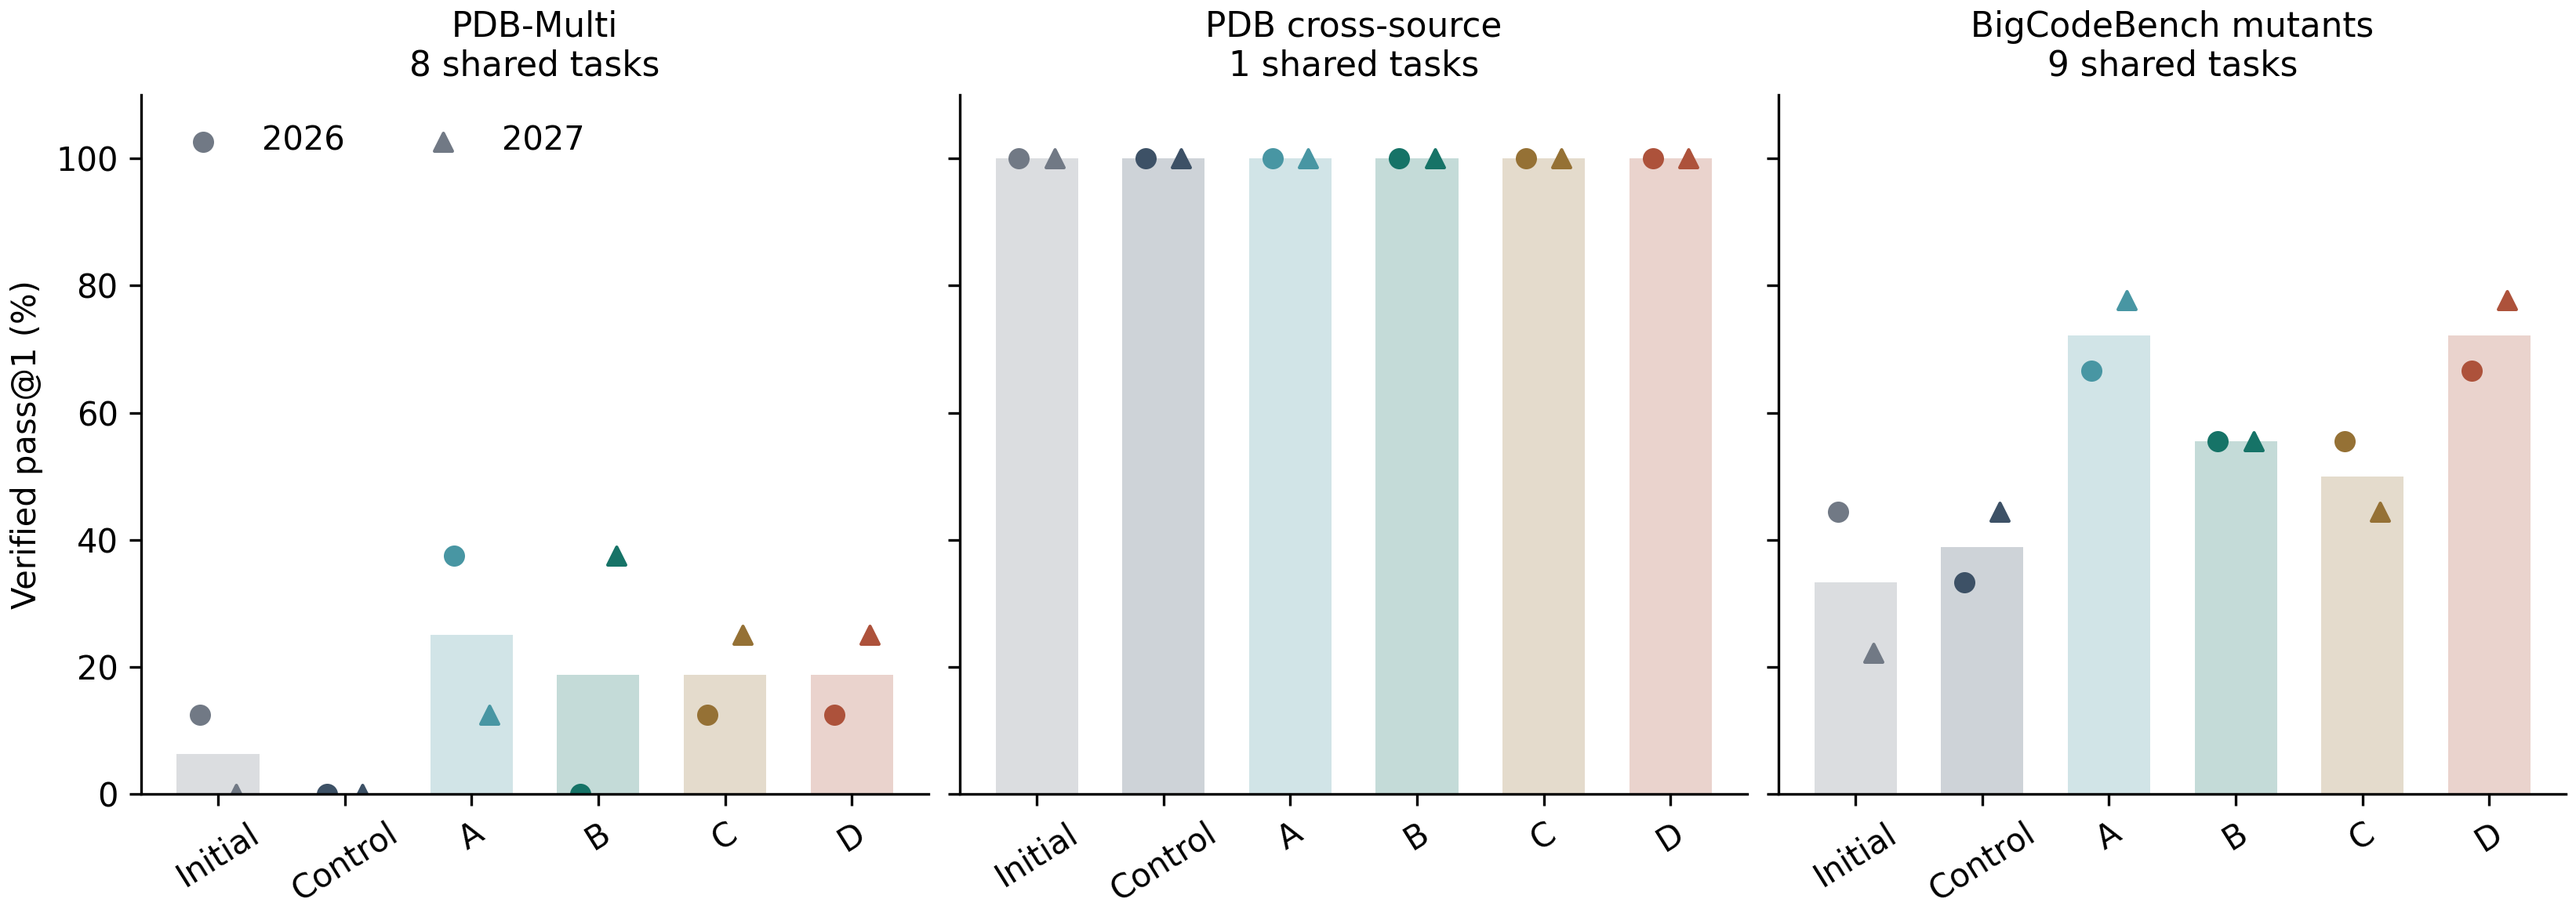
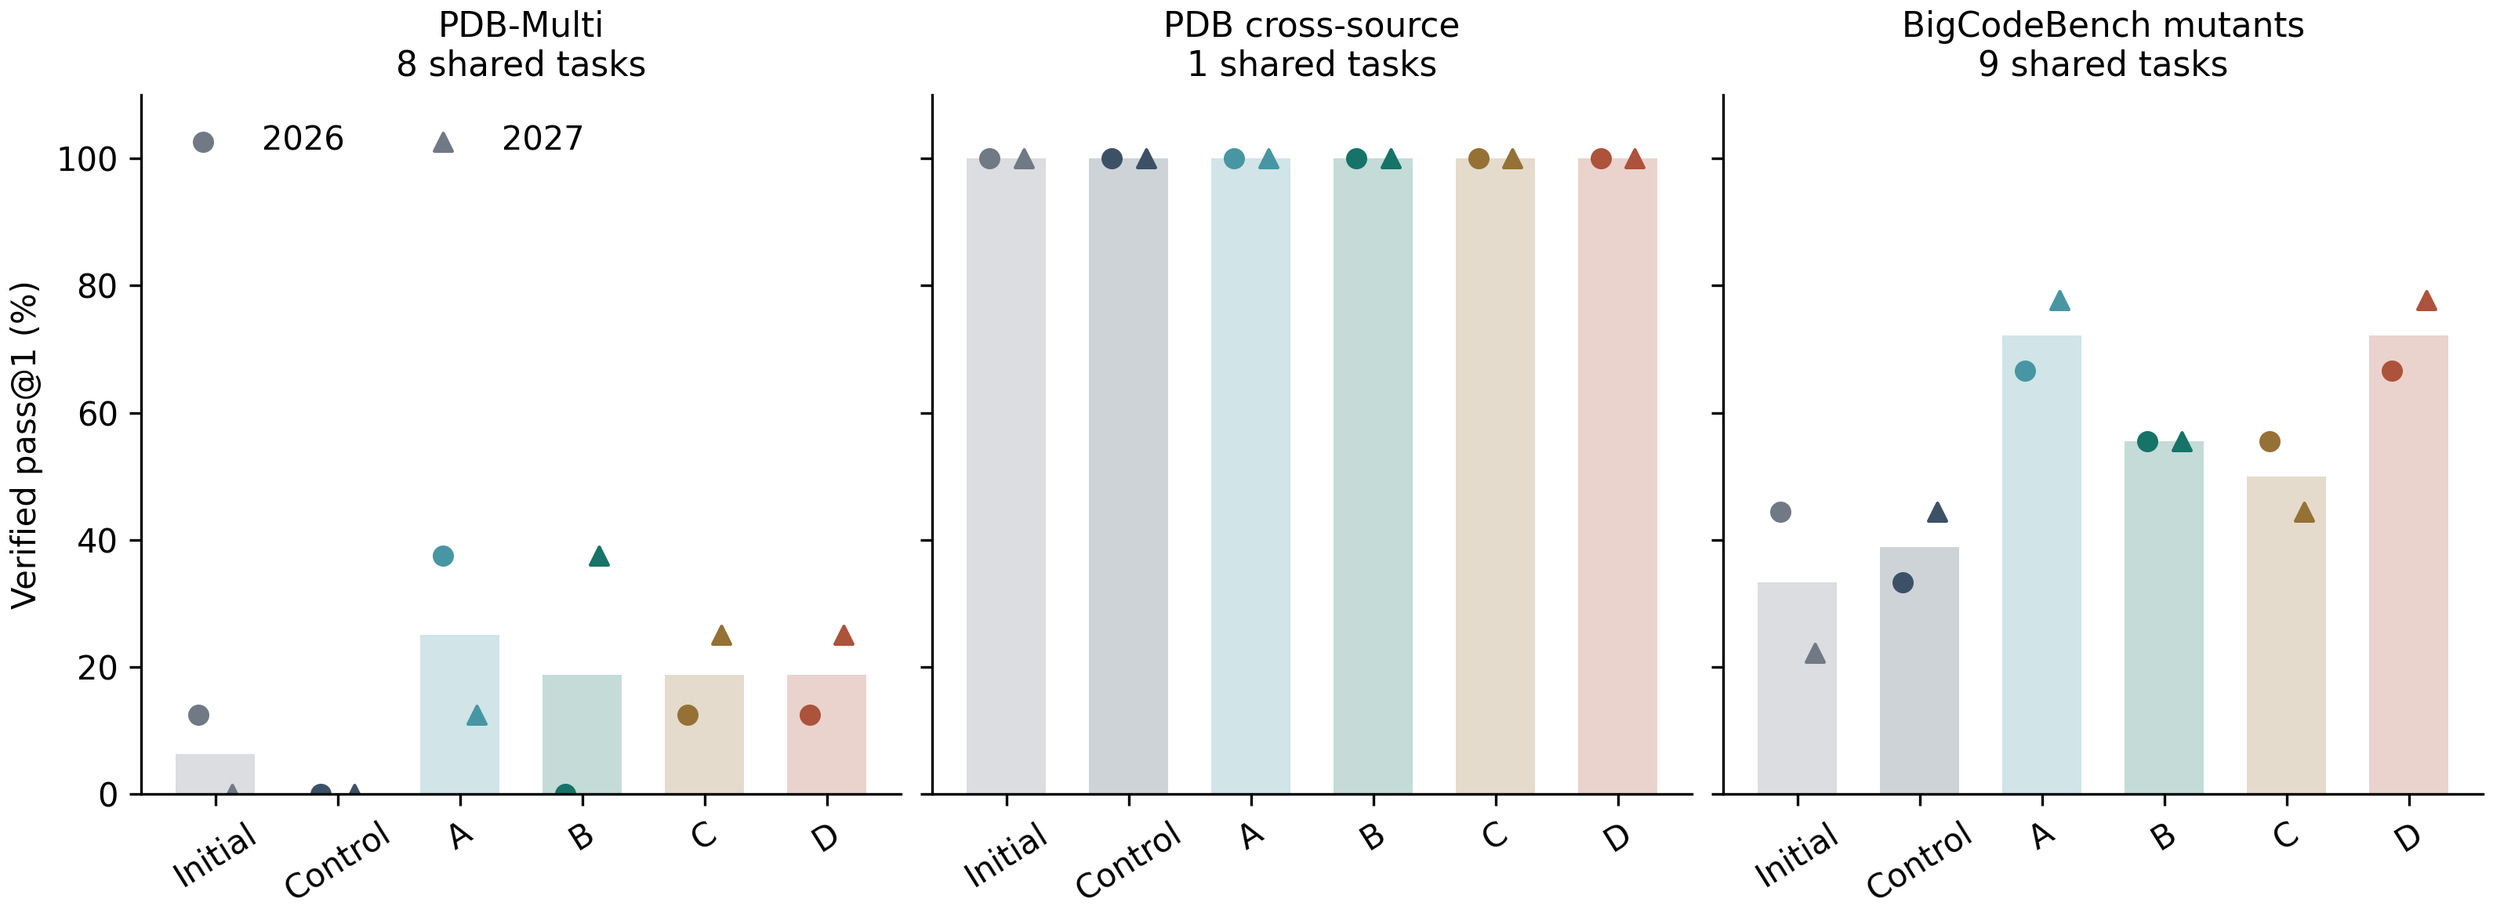
Plot complete proposer behavior and present transfer cohorts separately

diff --git a/scripts/plot_task23.py b/scripts/plot_task23.py
@@ -101,10 +101,19 @@ def transfer_figure(output: Path, report: dict) -> None:
     plt = mpl()
     observed = report.get("followup", {}).get("ood", {})
     splits = list(SPLITS)[:3] + [key for key in list(SPLITS)[3:] if key in observed]
-    fig, axes = plt.subplots(
-        1, len(splits), figsize=(3.65 * len(splits), 3.9), sharey=True, layout="constrained"
+    expanded = len(splits) > 3
+    fig, grid = plt.subplots(
+        2 if expanded else 1,
+        3,
+        figsize=(10.6, 6.7 if expanded else 3.9),
+        sharey=True,
+        layout="constrained",
+        squeeze=False,
     )
-    for ax, split in zip(axes, splits, strict=True):
+    axes = list(grid.flat)
+    for unused in axes[len(splits) :]:
+        unused.set_axis_off()
+    for ax, split in zip(axes[: len(splits)], splits, strict=True):
         table = observed.get(split)
         for x, arm in enumerate(METHODS):
             rows = [
@@ -127,8 +136,11 @@ def transfer_figure(output: Path, report: dict) -> None:
         ax.set_title(f"{SPLITS[split]}\n{rows[0]['count']} shared tasks", fontsize=10.5)
         ax.set(xticks=range(6), xticklabels=METHODS, ylim=(0, 110))
         ax.tick_params(axis="x", labelrotation=32)
-    axes[0].set_ylabel("Verified pass@1 (%)")
+    for ax in axes[::3]:
+        ax.set_ylabel("Verified pass@1 (%)")
     axes[0].legend(frameon=False, ncols=2, loc="upper left")
+    if expanded:
+        fig.suptitle("Transfer repair performance by benchmark")
     finish(fig, output, "03-transfer")
 
 
@@ -255,6 +267,78 @@ def dynamics_figure(output: Path, report: dict) -> None:
         ax.set_xlabel("Attempted student episodes")
     fig.suptitle("Online learning dynamics on evolving generated tasks · solid 2026, dashed 2027")
     finish(fig, output, "05-online-dynamics")
+
+
+def proposer_figure(output: Path, report: dict) -> None:
+    plt = mpl()
+    fig, axes = plt.subplots(2, 3, figsize=(11, 6.5), layout="constrained")
+    metrics = (
+        (
+            "Invalid proposals / attempted",
+            lambda row: row["proposal_invalid"] / row["proposal_attempts"],
+        ),
+        ("Duplicate proposals / attempted", lambda row: row["duplicate_proposal_rate"]),
+        ("Proposer gradient norm", lambda row: row["proposer_gradient_norm"]),
+        ("Student verified rate on proposed tasks", lambda row: row["proposal_mean_solve_rate"]),
+        (
+            "Near-zero alignments / valid proposals",
+            lambda row: (
+                row["near_zero_alignments"] / row["proposal_valid"]
+                if row["proposal_valid"]
+                else None
+            ),
+        ),
+    )
+    for index, (ax, (name, value)) in enumerate(zip(axes.flat, metrics, strict=False)):
+        for arm in METHODS[4:] if index == 4 else METHODS[1:]:
+            for seed_idx, seed in enumerate(SEEDS):
+                rows = report["cells"][f"{seed}-{arm}"]["batches"]
+                ax.plot(
+                    [row["episode"] for row in rows],
+                    [value(row) for row in rows],
+                    linestyle=("-", "--")[seed_idx],
+                    linewidth=1,
+                    color=COLORS[arm],
+                    label=arm if seed_idx == 0 else None,
+                )
+        ax.set(title=name, xlabel="Attempted student episodes")
+        if index == 2:
+            ax.set_yscale("symlog", linthresh=0.001)
+    axes[0, 0].legend(frameon=False, ncols=3, fontsize=8)
+    ax = axes[1, 2]
+    palette = ("#934f48", "#bd7858", "#deb486", "#80a79c", "#2f6a61")
+    for i in range(5):
+        for j, arm in enumerate(METHODS[1:]):
+            series = [row for seed in SEEDS for row in report["cells"][f"{seed}-{arm}"]["batches"]]
+            for k in (0, 1):
+                rows = [
+                    row["student_group_counts"]
+                    for row in series
+                    if (row["episode"] > 256) == bool(k)
+                ]
+                totals = [sum(row[str(n)] for row in rows) for n in range(5)]
+                n = sum(totals)
+                if n:
+                    ax.bar(
+                        j + (-0.17, 0.17)[k],
+                        totals[i] / n,
+                        width=0.3,
+                        bottom=sum(totals[:i]) / n,
+                        color=palette[i],
+                        label=str(i) if j == 0 and k == 0 else None,
+                    )
+    ax.set(
+        xticks=range(5),
+        xticklabels=METHODS[1:],
+        ylim=(0, 1.18),
+        title="Student successes per 4-rollout group",
+        xlabel="First / last 256 episodes per arm",
+    )
+    ax.legend(
+        title="Successes", frameon=False, ncols=5, fontsize=7, title_fontsize=8, loc="upper center"
+    )
+    fig.suptitle("Proposer behavior · solid 2026, dashed 2027")
+    finish(fig, output, "05-proposer-behavior")
 
 
 def alignment_figure(output: Path, report: dict, compact: bool = False) -> None:
@@ -632,6 +716,7 @@ def export(output: Path, report: dict) -> None:
     transfer_figure(output, report)
     development_figure(output, report)
     dynamics_figure(output, report)
+    proposer_figure(output, report)
     alignment_figure(output, report)
     strength_figure(output, report)
     failure_figure(output, report)

diff --git a/docs/report/task23-results-and-discussion.md b/docs/report/task23-results-and-discussion.md
@@ -102,7 +102,8 @@ committed attempt slots and retains raw iteration points. Proposer rewards
 appear separately for difficulty and cosine. Novelty counts use distinct
 scored task IDs. Duplicate flags can overlap proposal validity. Verifier
 statuses distinguish model failures from infrastructure failure or retries.
-[Online dynamics](../figures/task23/05-online-dynamics.pdf)
+[Online dynamics](../figures/task23/05-online-dynamics.pdf) ·
+[Proposer behavior](../figures/task23/05-proposer-behavior.pdf)
 
 | Paired diagnostic group | Candidates | C near-zero | D near-zero | D positive cosine |
 | --- | ---: | ---: | ---: | ---: |
